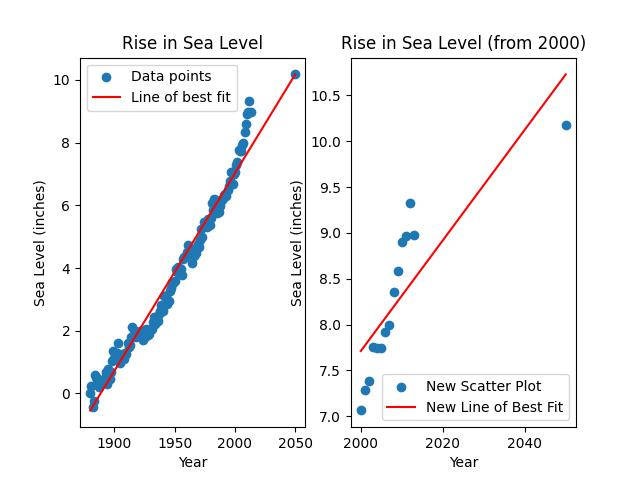
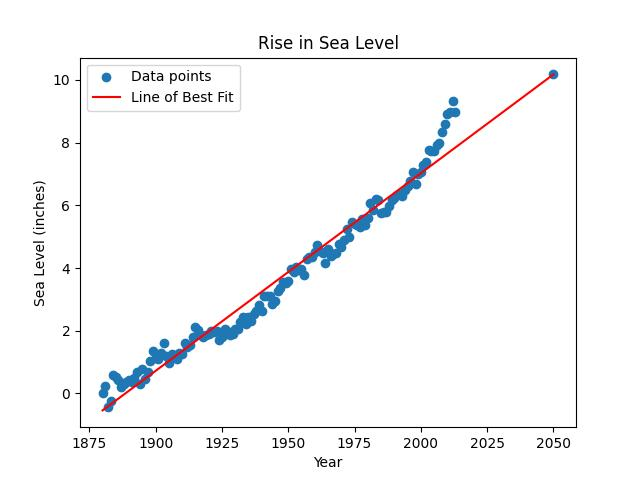
Commit update

diff --git a/scripts/analysis.py b/scripts/analysis.py
@@ -1,0 +1,105 @@
+import pandas as pd
+import matplotlib.pyplot as plt
+from scipy.stats import linregress
+
+
+def load_data(filepath):
+    """Load data from a CSV file."""
+    try:
+        df = pd.read_csv(filepath)
+        if df.empty:
+            raise ValueError("The dataset is empty.")
+        return df
+    except FileNotFoundError:
+        raise FileNotFoundError("The data file was not found.")
+    except pd.errors.EmptyDataError:
+        raise ValueError("The data file is empty or not properly formatted.")
+    except ValueError as e:
+        raise ValueError(f"Error reading the data file: {e}")
+
+
+def perform_regression(x, y):
+    """Perform linear regression and return the slope and intercept."""
+    try:
+        slope, intercept, r_value, p_value, std_err = linregress(x, y)
+        return slope, intercept
+    except Exception as e:
+        raise RuntimeError(f"Error performing regression: {e}")
+
+
+def plot_data(x, y, y_pred, title, xlabel, ylabel, filename):
+    """Plot the data and save the figure."""
+    plt.scatter(x, y, label='Data points')
+    plt.plot(x, y_pred, color='red', label='Line of Best Fit')
+    plt.xlabel(xlabel)
+    plt.ylabel(ylabel)
+    plt.title(title)
+    plt.legend()
+    plt.savefig(filename)
+    plt.close()
+
+
+def main():
+    # Load data
+    filepath = '../data/epa-sea-level.csv'
+    df = load_data(filepath)
+    x = df['Year']
+    y = df['CSIRO Adjusted Sea Level']
+
+    # Perform regression for full dataset
+    try:
+        slope, intercept = perform_regression(x, y)
+    except RuntimeError as e:
+        print(e)
+        return
+
+    # Calculate y-values for the line of best fit
+    y_prediction_full = slope * x + intercept
+
+    # Predict sea level for the year 2050
+    pred_y = slope * 2050 + intercept
+
+    # Create a DataFrame for the new prediction
+    pred_df = pd.DataFrame({'Year': [2050], 'CSIRO Adjusted Sea Level': [pred_y]})
+
+    # Concatenate the original dataframe with the prediction
+    df = pd.concat([df, pred_df], ignore_index=True)
+    x = df['Year']
+    y = df['CSIRO Adjusted Sea Level']
+
+    # Perform regression for updated dataset
+    try:
+        slope, intercept = perform_regression(x, y)
+    except RuntimeError as e:
+        print(e)
+        return
+
+    # Calculate y-values for the updated line of best fit
+    y_prediction_updated = slope * x + intercept
+
+    # Plot and save the figure
+    plot_data(x, y, y_prediction_updated, 'Rise in Sea Level', 'Year', 'Sea Level (inches)',
+              '../figures/forecast.jpg')
+
+    # Filter data for analysis from the year 2000 onwards
+    df_recent = df[df['Year'] >= 2000].reset_index(drop=True)
+    x_recent = df_recent['Year']
+    y_recent = df_recent['CSIRO Adjusted Sea Level']
+
+    # Perform regression for recent dataset
+    try:
+        slope_recent, intercept_recent = perform_regression(x_recent, y_recent)
+    except RuntimeError as e:
+        print(e)
+        return
+
+    # Calculate y-values for the recent line of best fit
+    y_prediction_recent = slope_recent * x_recent + intercept_recent
+
+    # Plot and save the recent data figure
+    plot_data(x_recent, y_recent, y_prediction_recent, 'Rise in Sea Level (from 2000)', 'Year', 'Sea Level (inches)',
+              '../figures/sea-level-recent.jpg')
+
+
+if __name__ == "__main__":
+    main()
